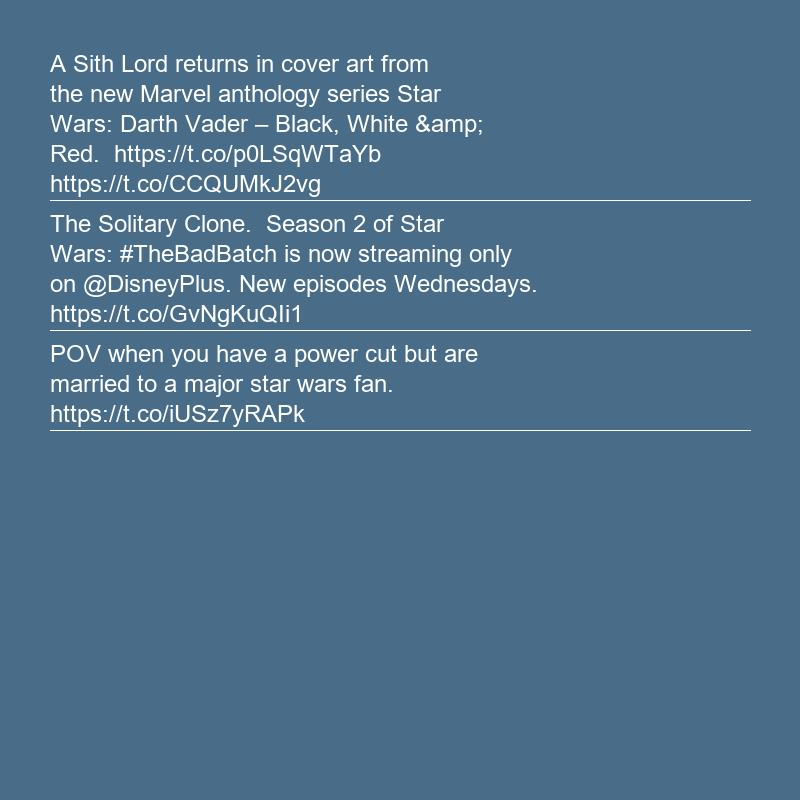
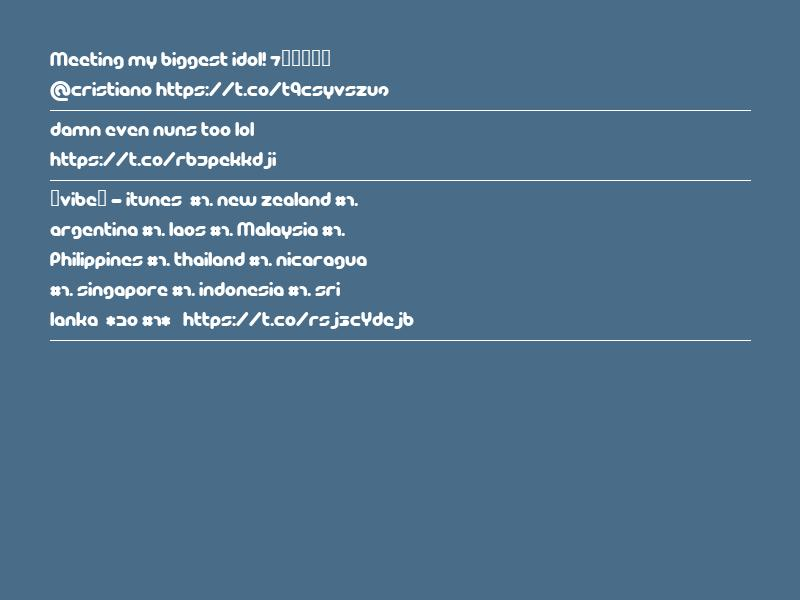
ImageFormatter class updated
ImageFormatter class
     format_image method now is working properly

Changed region(s): [[0.0625, 0.06, 0.9375, 0.57]]

diff --git a/styles/styles.css b/styles/styles.css
@@ -1,26 +1,23 @@
 /*
-  font-family: TwitterChirp, -apple-system, BlinkMacSystemFont, "Segoe UI", Roboto, Helvetica, Arial, sans-serif;
-  src: url('twitterchirp.ttf') format('truetype');
+  
 */
 
 /* Set the font and font size */
 @font-face {
-  font-family: PICOBLA, -apple-system, BlinkMacSystemFont, 'Segoe UI', Roboto,
-    Helvetica, Arial, sans-serif;
-  src: url('PICOBLA_.ttf') format('truetype');
+  font-family: TwitterChirp;
+  src: url(/styles/PICOBLA_.TTF);
   font-size: 20px;
 }
 
 /* Set the color scheme to match Twitter */
 body {
+  font-family: TwitterChirp;
   background-color: #1da1f2;
   color: #fff;
 }
 
 /* Set the font for the tweets */
 .tweet-text {
-  font-family: PICOBLA, -apple-system, BlinkMacSystemFont, 'Segoe UI', Roboto,
-    Helvetica, Arial, sans-serif;
   font-size: 20px;
   line-height: 1.5;
   color: #fff;
@@ -29,23 +26,4 @@ body {
 /* Style the image */
 img {
   border: 2px solid #fff;
-}
-
-/* Position the tweets on the image */
-.tweet-1 {
-  position: absolute;
-  top: 60px;
-  left: 20px;
-}
-
-.tweet-2 {
-  position: absolute;
-  top: 160px;
-  left: 20px;
-}
-
-.tweet-3 {
-  position: absolute;
-  top: 260px;
-  left: 20px;
 }

diff --git a/image_formatter.py b/image_formatter.py
@@ -8,7 +8,7 @@ class ImageFormatter:
         self.tweets = tweets  # lista de tweets que serão escritos na imagem
         self.image_path = image_path  # caminho da imagem
         # cria uma nova imagem com tamanho 800x800 e cor de fundo
-        self.img = Image.new('RGB', (800, 800), color=(73, 109, 137))
+        self.img = Image.new('RGB', (800, 600), color=(73, 109, 137))
         # cria um objeto para desenhar na imagem
         self.d = ImageDraw.Draw(self.img)
         # define a fonte e tamanho do texto
@@ -32,19 +32,22 @@ class ImageFormatter:
 
     def format_image(self, css_path: str):
         with open(css_path, 'r') as css:
-            styles = css.read()  # pega o nome da fonte no arquivo CSS
+            styles = css.read()
             # Get the font-family from the CSS file
-            font_family = styles.split("font-family:")[1].split(";")[0].strip()
+            font_url = styles.split("src: url(/")[1].split(")")[0].strip()
             # Get the font-size from the CSS file
             font_size = int(styles.split("font-size:")
                             [1].split(";")[0].strip().replace("px", ""))
             # Get the font-color from the CSS file
             font_color = styles.split("color:")[1].split(";")[0].strip()
+            # print(font_url)
+            # print(font_size)
+            # print(font_color)
+
             # Update the font object with the new font-family and font-size
-            # self.font = ImageFont.truetype(font_size)
-            # self.font = ImageFont.truetype(font_family, font_size)
+            self.font = ImageFont.truetype(font_url, font_size)
+            self.d.textfont = self.font
+            self.d.fill = font_color
 
-            # salva a imagem com as novas formatações
+            # save imag
             self.img.save(self.image_path)
-
-

diff --git a/twitter_api.py b/twitter_api.py
@@ -10,7 +10,7 @@ class TwitterAPI:
 
     def get_trending_tweets(self) -> List[str]:
         tweets = self.api.search_tweets(
-            q='star wars', lang='en', result_type='popular', tweet_mode='extended')
+            q='*', lang='en', result_type='popular', tweet_mode='extended')
         return [tweet.full_text for tweet in tweets[:3]]
 
     def post_image(self, image_path: str):

diff --git a/README.md b/README.md
@@ -37,7 +37,6 @@ The script authenticates to the Twitter API using the TwitterAPI class, which ta
     - This method writes the tweets on the image and saves the image to the specified path.
   - format_image(self, css_path: str):
     - This method reads the css file and updates the font object with the new font-family, font-size, and font-color.
-    - However, this method is not implemented correctly and it has no effect on the final output of the image.
   - The script is using the wrap method from the textwrap library to divide the text into lines with a maximum of 40 characters.
 
 Overall, the script uses the Twitter API to get the top trending tweets, formats them into an image, and posts the image to Twitter. However, there are some limitations and the implementation could be improved.
